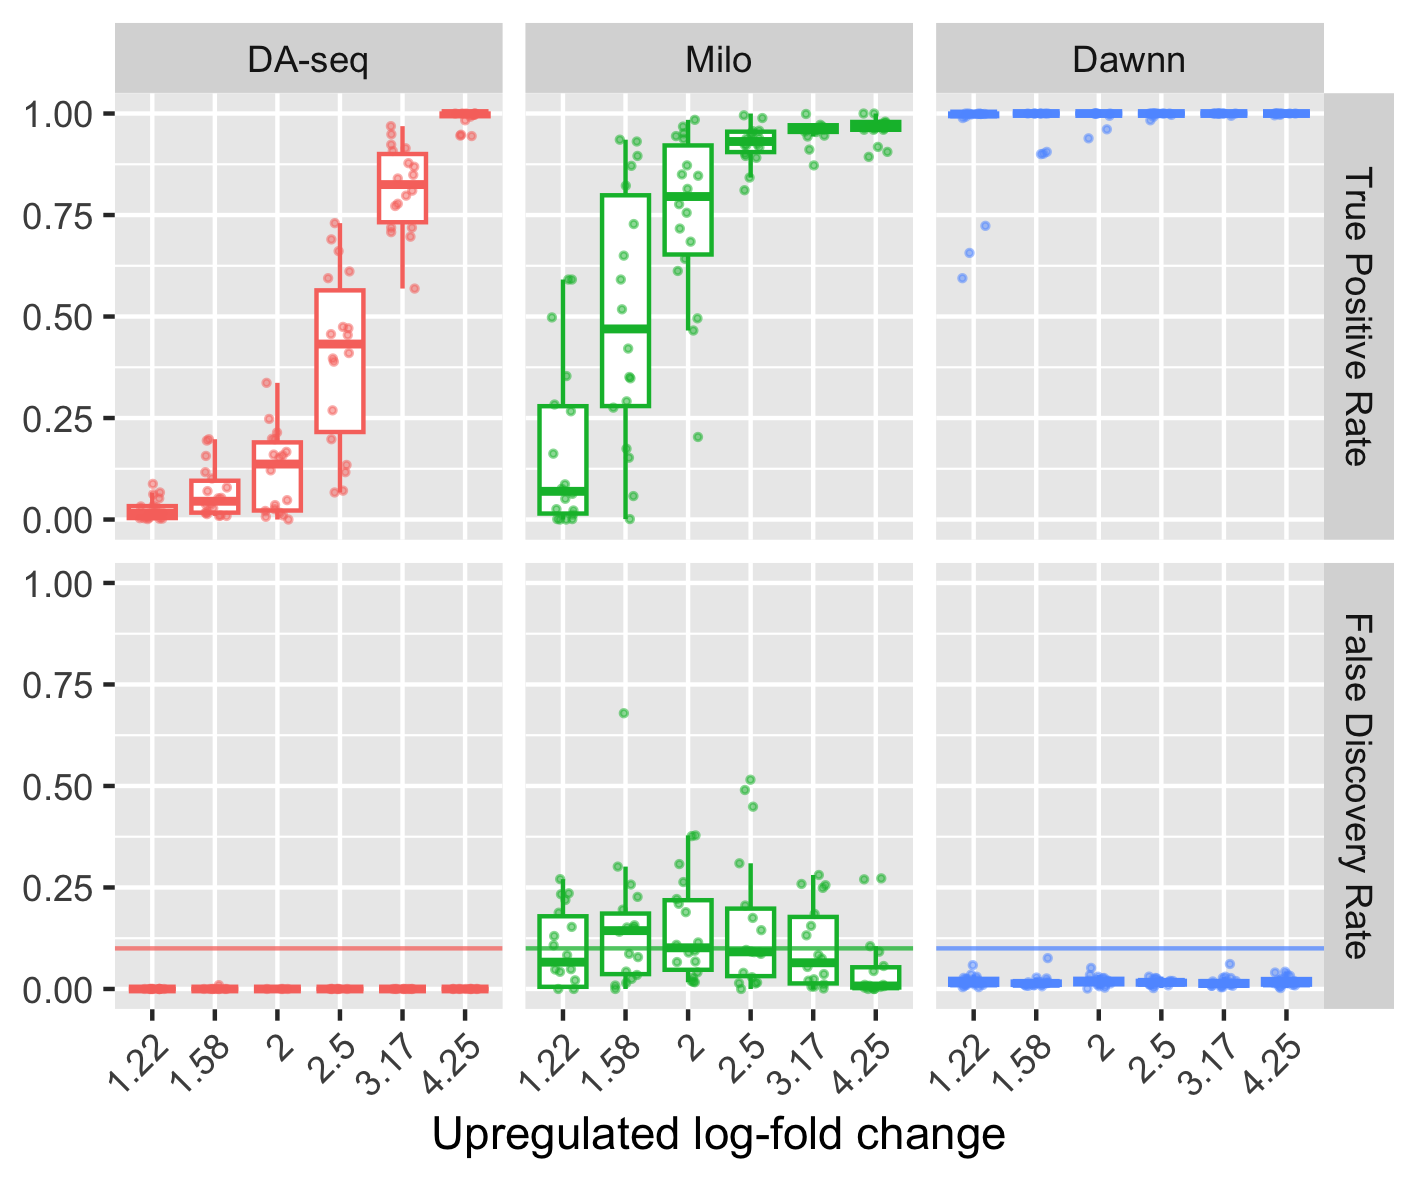
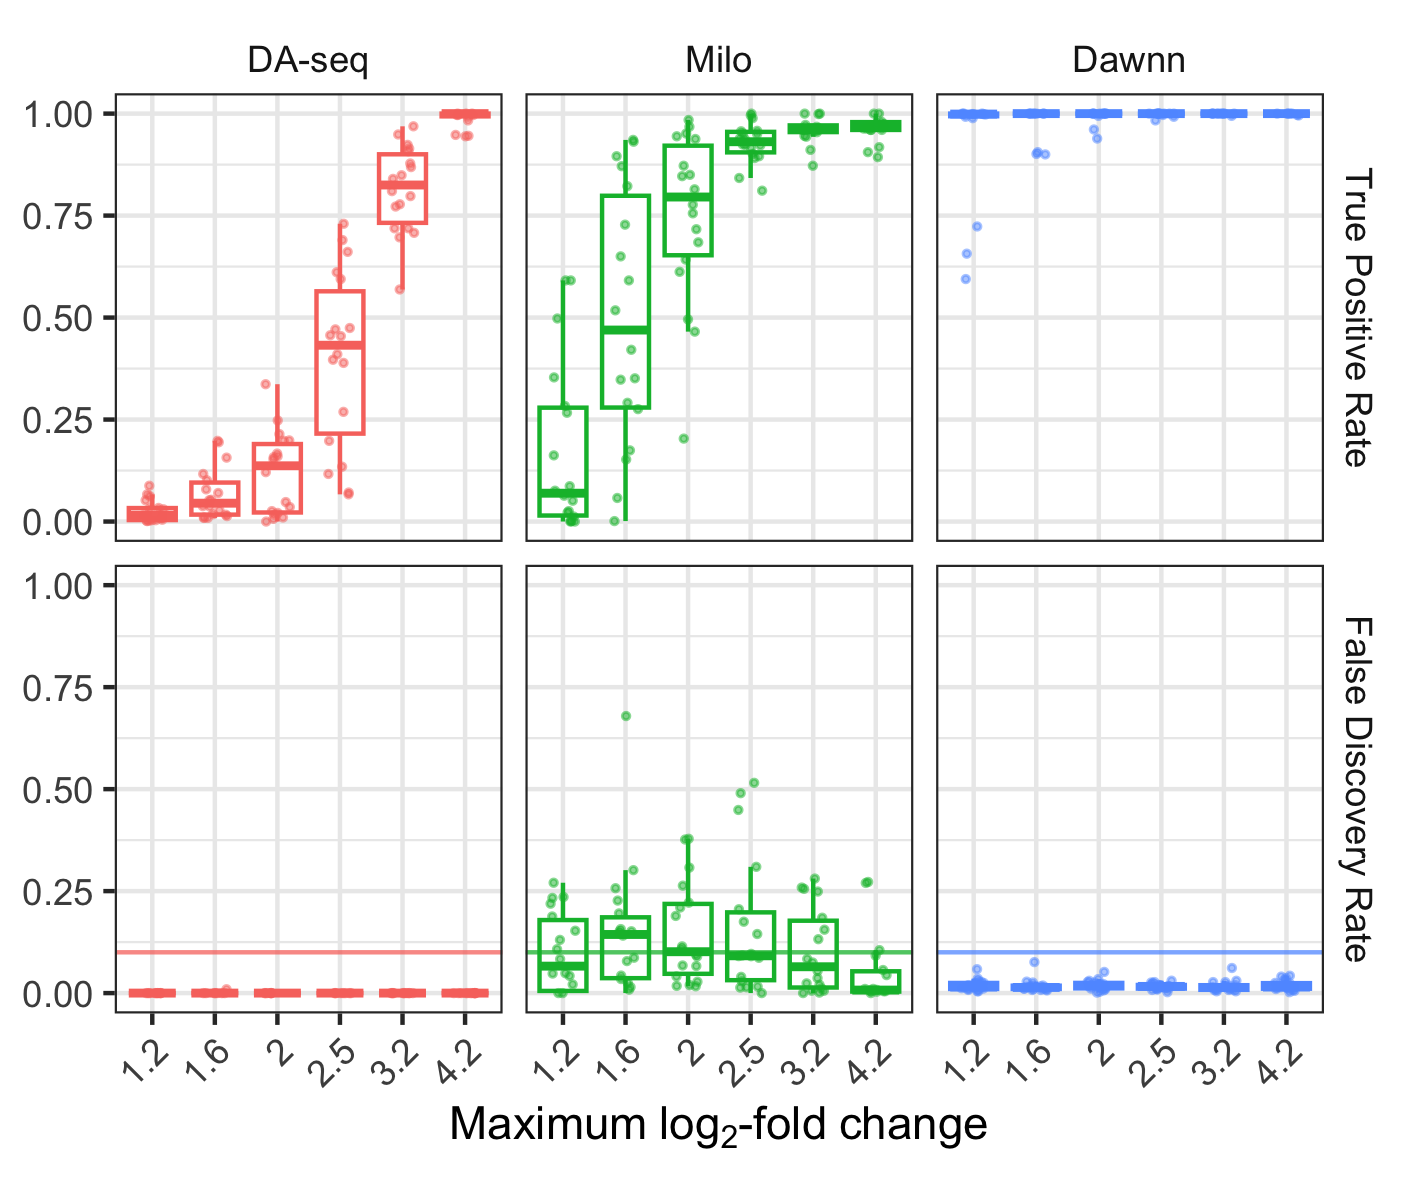
Lint

diff --git a/benchmarking_results.md b/benchmarking_results.md
@@ -1,7 +1,7 @@
 ---
 title: "Analysis for 'Dawnn: single-cell differential abundance with neural networks'"
 author: "George T. Hall"
-date: "Compiled on 20 April 2023"
+date: "Compiled on 21 April 2023"
 output:
     html_document:
         toc: true
@@ -24,8 +24,9 @@ details.
 This notebook generates the figures in the paper _Dawnn: single-cell
 differential abundance with neural networks_. It is my intention that all
 results shoud be completely reproducible. To this end, all objects and code
-used to generate the results files read in this notebook are available [here](this is the link). If you are
-unable to reproduce any result, please let me know at `george.hall@ucl.ac.uk`.
+used to generate the results files read in this notebook are available
+[here](this is the link). If you are unable to reproduce any result, please let
+me know at `george.hall@ucl.ac.uk`.
 
 
 ```r
@@ -39,8 +40,12 @@ library(rstatix)
 
 # Benchmarking TPR and FDR
 
+We start by defining some functions to read results files and plot the figures.
+For tidyness, these functions are hidden by default. Click on the title to
+reveal the code.
+
 <details>
-<summary>Function to read results file</summary>
+<summary>`read_results` Read results file</summary>
 
 ```r
 read_results <- function(out_file_name) {
@@ -54,7 +59,7 @@ read_results <- function(out_file_name) {
 </details>
 
 <details>
-<summary>Function to parse results dataframe</summary>
+<summary>`parse_results` Parse results dataframe</summary>
 
 ```r
 parse_results <- function(results) {
@@ -62,15 +67,17 @@ parse_results <- function(results) {
     results$hline <- 0
     results[results$stat == "tpr", ]$hline <- 10 # Deliberately outside of graph
     results[results$stat == "fdr", ]$hline <- 0.1
-    results$method <- factor(results$method, levels = c("daseq", "milo", "dawnn"),
+    results$method <- factor(results$method,
+                             levels = c("daseq", "milo", "dawnn"),
                              labels = c("DA-seq", "Milo", "Dawnn"))
     results$stat <- factor(results$stat, levels = c("tpr", "fpr", "fdr"),
-                           labels = c("True Positive Rate", "False Positive Rate",
+                           labels = c("True Positive Rate",
+                                      "False Positive Rate",
                                       "False Discovery Rate"))
     # Milo paper used natural logarithm here (i.e. log()), but I think log2 is
     # more natural (e.g. more common with DE analysis).
     lfcs <- log2(results$upreg_pc1 / (1 - results$upreg_pc1))
-    results$upreg_lfc <- as.factor(round(lfcs, 2))
+    results$upreg_lfc <- as.factor(round(lfcs, 1))
 
     results <- subset(results, subset = stat %in% c("True Positive Rate",
                                                     "False Discovery Rate"))
@@ -82,7 +89,7 @@ parse_results <- function(results) {
 </details>
 
 <details>
-<summary>Function to plot accuracy results</summary>
+<summary>`plot_accuracy_results` Plot accuracy results</summary>
 
 ```r
 plot_accuracy_results <- function(results) {
@@ -92,9 +99,11 @@ plot_accuracy_results <- function(results) {
         geom_boxplot(aes(color = method), outlier.shape = NA) +
         geom_jitter(aes(color = method), size = 0.5, width = 0.2, alpha = 0.5) +
         geom_hline(aes(yintercept = hline, color = method), alpha = 0.75) +
+        theme_bw() +
         theme(axis.text.x = element_text(angle = 45, hjust = 1),
-              legend.position = "none", axis.title.y = element_blank()) +
-        xlab("Upregulated log-fold change") + ylim(0, 1) +
+              legend.position = "none", axis.title.y = element_blank(),
+              strip.background = element_blank()) +
+        xlab(bquote(Maximum~log[2] * `-fold` ~ change)) + ylim(0, 1) +
         facet_grid(cols = vars(method), rows = vars(stat))
 
     return(p)
@@ -103,7 +112,7 @@ plot_accuracy_results <- function(results) {
 </details>
 
 <details>
-<summary>Function to read results file with statistics</summary>
+<summary>`plot_accuracy_results_signif` Plot accuracy results with statistics</summary>
 
 ```r
 plot_accuracy_results_signif <- function(results) {
@@ -155,7 +164,8 @@ plot_accuracy_results_signif <- function(results) {
          scale_y_continuous(breaks = seq(0, 1, 0.2),
                             expand = expansion(mult = c(0.01, 0.1))) &
          theme(axis.text.x = element_text(angle = 45, hjust = 1),
-               legend.position = "none", axis.title = element_blank())
+               legend.position = "none", axis.title = element_blank(),
+               strip.background = element_blank())
 
     return(p)
 }
@@ -163,7 +173,7 @@ plot_accuracy_results_signif <- function(results) {
 </details>
 
 <details>
-<summary>Function to save ggplots</summary>
+<summary>`ggsave_plots` Save ggplots</summary>
 
 ```r
 ggsave_plots <- function(non_stat_plot, stat_plot, file_name) {
@@ -176,6 +186,11 @@ ggsave_plots <- function(non_stat_plot, stat_plot, file_name) {
 }
 ```
 </details>
+
+<br>
+
+We now plot the accuracy results (with and without tests for statistical
+significance) for each benchmarking dataset.
 
 ## Simulated discrete clusters
 
@@ -348,9 +363,14 @@ ggsave_plots(p_heart_acc, p_heart_acc_stats,
 
 # Recovering liver cirrhosis findings
 
+We follow Dann _et al._ in reproducing published results using Dawnn (see
+[Figure 5d](https://www.nature.com/articles/s41587-021-01033-z/figures/5) in
+their paper). This section is a very lightly adapted version of [their
+code](https://github.com/MarioniLab/milo_analysis_2020/blob/main/notebooks/Fig5_liver_cirrhosis.Rmd#L261).
+We demonstrate that DA-seq is also able to recover these published findings.
+
 
 ```r
-# Generate beeswarm plots following Milo paper
 # Label cell types as DA or not, as per dataset's paper
 group.by <- "annotation_indepth"
 paper_DA <- list(cirrhotic = c("MPs (4)", "MPs (5)", "Endothelia (6)",
@@ -458,12 +478,16 @@ ggsave(filename = "manuscript/images/cirrhosis_all_methods_beeswarms.png",
        plot = p_all_beeswarms, dpi = 300, units = "cm", width = 30, height = 40)
 ```
 
-# PC1 estimation accuracy
+# P(Condition1) estimation accuracy
+
+To compare against MELD - which does not call cells as in regions of
+differential abundance - we again follow Dann _et al._ and compare the mean
+squared errors of their estimates of P(Condition1). We also do so for DA-seq.
 
 
 ```r
 plot_pc1_estimates <- function(results, other_method, other_mses) {
-    mses_df <- data.frame(x = 0.8, y = 0.35, lab = other_mses,
+    mses_df <- data.frame(x = 0.82, y = 0.35, lab = other_mses,
                           cell_type = factor(sort(rep(unique(results$cell_type), 3))),
                           upreg_pc1 = factor(rep(unique(results$upreg_pc1), 3)))
     min_x <- min(results$truth)
@@ -473,10 +497,13 @@ plot_pc1_estimates <- function(results, other_method, other_mses) {
 
     p <- ggplot(results, aes(x = truth, y = .data[[other_method]])) +
             geom_point(size = 0, alpha = 0.03) +
+            xlab("Ground truth") + ylab("Estimated value") +
             xlim(c(min_x, max_x)) + ylim(c(min_y, max_y)) +
             geom_abline(intercept = 0, slope = 1, color = "red") +
             geom_text(data = mses_df, aes(x = x, y = y, label = lab)) +
-            facet_grid(upreg_pc1 ~ cell_type)
+            facet_grid(upreg_pc1 ~ cell_type) & theme_bw() &
+            theme(strip.background = element_blank(),
+                  plot.title = element_text(hjust = 0.5))
 
     return(p)
 }
@@ -532,7 +559,7 @@ p_meld <- plot_pc1_estimates(results, "meld", round(meld_mses$x, 5)) +
 p_dawnn <- plot_pc1_estimates(results, "dawnn", round(dawnn_mses$x, 5)) +
            ggtitle("Dawnn")
 p_daseq <- plot_pc1_estimates(results, "daseq", round(daseq_mses$x, 5)) +
-           ggtitle("DAseq")
+           ggtitle("DA-seq")
 
 layout <- "
 #AA#
@@ -551,13 +578,23 @@ ggsave(filename = "manuscript/images/mse_comparisons.png", plot = p_mses,
 
 # Runtime analysis
 
+Finally, we compare the runtimes of Dawnn, Milo, and DA-seq.
+
 
 ```r
 runtime_results <- read.csv("data_for_benchmarking_results/runtime_results_regen.csv",
                             header = FALSE)
-colnames(runtime_results) <- c("method", "n", "t", "rep")
-runtime_plot <- ggplot(runtime_results, aes(x = n, y = t, color = method)) +
-                geom_point() + xlab("Number of cells") + ylab("Time (secs)")
+colnames(runtime_results) <- c("Method", "n", "t", "rep")
+runtime_results$Method[runtime_results$Method == "dawnn"] <- "Dawnn"
+runtime_results$Method[runtime_results$Method == "milo"] <- "Milo"
+runtime_results$Method[runtime_results$Method == "daseq"] <- "DA-seq"
+runtime_results$Method <- factor(runtime_results$Method,
+                                 levels = c("Dawnn", "DA-seq", "Milo"))
+
+runtime_plot <- ggplot(runtime_results, aes(x = n, y = t, color = Method)) +
+                geom_point() + xlab("Number of cells") + ylab("Time (secs)") +
+                scale_color_manual(values = c("#D81B60", "#1E88E5", "#FFC107")) +
+                theme_classic() + theme(legend.title = element_blank())
 runtime_plot
 ```
 
